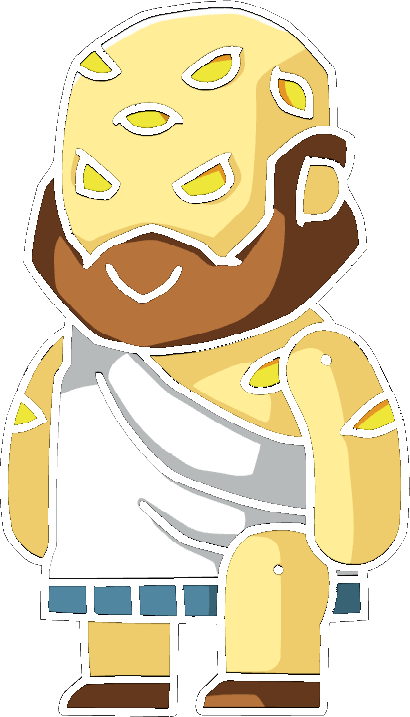
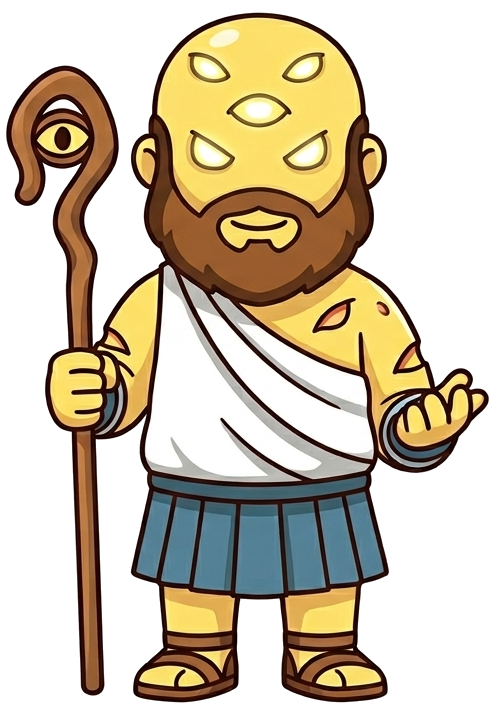
feat: new Argos mascot illustration
Replaces the Scribblenauts Argos icon with a new illustration inspired
by it. Attribution to the original icon by Miguel Ángel Aranda kept in
License.md and multimedia/images/license.txt.

diff --git a/License.md b/License.md
@@ -14,5 +14,5 @@ Full details can be found at https://creativecommons.org/licenses/by-nc-sa/4.0/.
 This photo is made available under the CC0 1.0 Universal Public Domain Dedication
 Original photo in https://cc0.photo/2016/03/12/be-quiet-priest-sculpture-in-venlo/
 
-"Scribblenauts Argos" PNG icon by Miguel Ángel Aranda
+The Argos mascot (`multimedia/images/scribblenauts-argos.png`) is a new illustration created for this project, inspired by the original "Scribblenauts Argos" PNG icon by Miguel Ángel Aranda, which it replaces:
 https://www.iconspng.com/image/149459/scribblenauts-argos

diff --git a/docs/CHANGELOG.md b/docs/CHANGELOG.md
@@ -26,6 +26,9 @@ CI, `.idea/` untracked, internal notes removed.
 #### README.md
 - OSINT tools table sorted alphabetically.
 
+#### multimedia/images/
+- The Argos mascot (`scribblenauts-argos.png`) replaced with a new illustration inspired by the original "Scribblenauts Argos" icon by Miguel Ángel Aranda. Attribution updated in `License.md` and `multimedia/images/license.txt`.
+
 ### Fixed
 
 #### setup.sh
